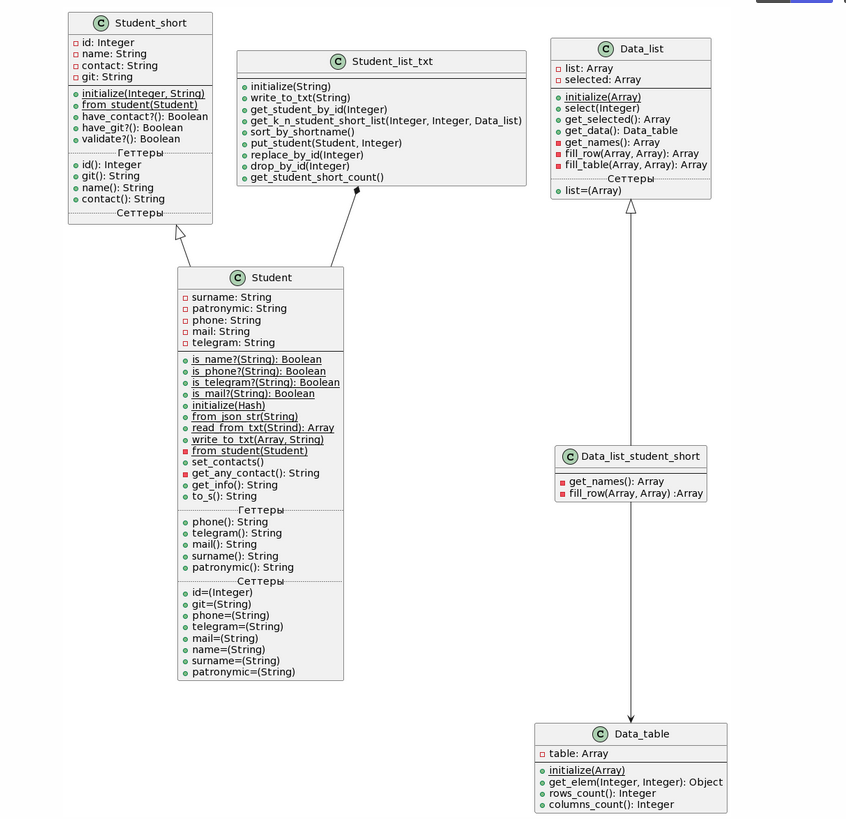
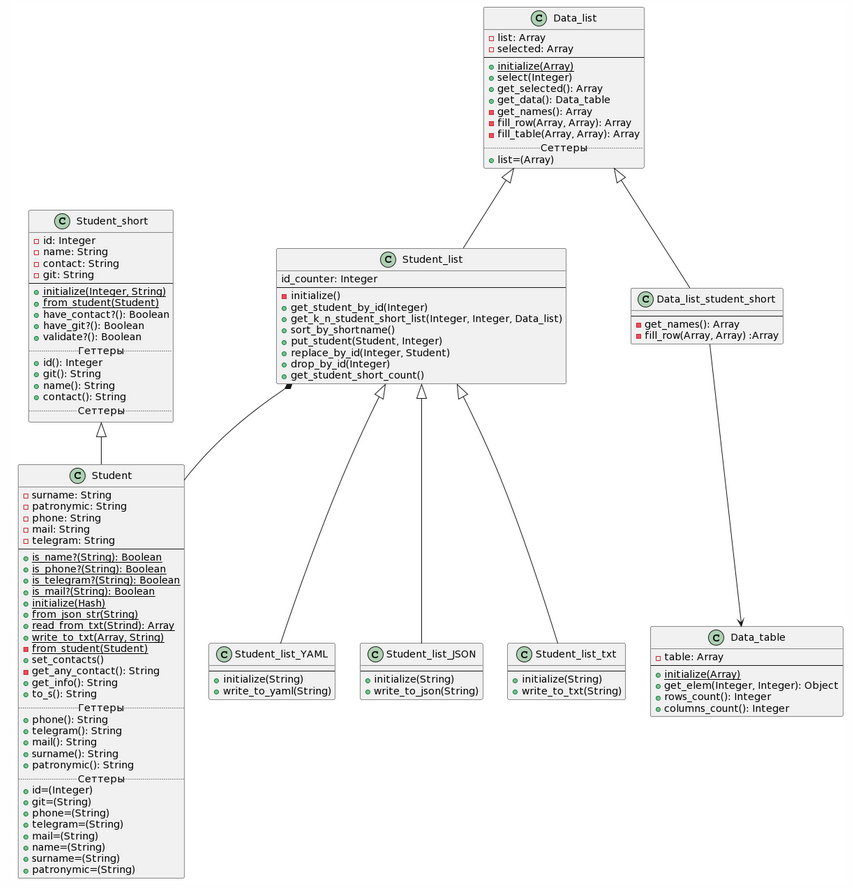
выделил суперкласс student_list

diff --git a/Lab2/task1/student_list_json.rb b/Lab2/task1/student_list_json.rb
@@ -1,58 +1,19 @@
 # frozen_string_literal: true
+require_relative 'student_list'
 
-class Student_list_JSON
-  attr_reader :student_list
+class Student_list_JSON < Student_list
+  public_class_method :new
+
   def initialize(file_path)
-    @student_list = []
-    @id_counter = 1
+    super()
     JSON.load(File.open(file_path)).each{|hash_for_student| put_student(Student.new(hash_for_student))}
   end
 
   def write_to_json(file_path)
     student_hash_list = []
-    @student_list.each{ |student| student_hash_list.append(student.to_hash) }
+    self.list.each{ |student| student_hash_list.append(student.to_hash) }
     File.open(file_path,'w') do |file|
       JSON.dump(student_hash_list,file)
     end
-  end
-
-  def get_student_by_id(id)
-    @student_list.find{ |student| student.id == id }
-  end
-
-  def get_k_n_student_short_list(k, n, data_list = nil)
-
-    if data_list
-      raise ArgumentError, "overflow indexes" if data_list.list.size < k * (n - 1) + 1
-      Data_list.new(data_list.list[k * (n - 1), k])
-    else
-      raise ArgumentError, "overflow indexes" if @student_list.size < k * (n - 1) + 1
-      Data_list.new(@student_list[k * (n - 1), k].map { |student| Student_short.from_student(student) } )
-    end
-  end
-
-  def sort_by_shortname
-    @student_list.sort_by! { |student | student.shortname }
-  end
-
-  def put_student(student, index = @student_list.size)
-    raise ArgumentError, "arg must be Student" unless student.class == Student
-
-    student.id = @id_counter
-    @student_list[index] = student
-    @id_counter += 1
-  end
-
-  def replace_by_id(id, student)
-    replace_index = @student_list.find_index{|old_student| old_student.id == id}
-    put_student(student, replace_index)
-  end
-
-  def drop_by_id(id)
-    @student_list.delete_if {|student| student.id == id}
-  end
-
-  def get_student_short_count
-    @student_list.size
   end
 end

diff --git a/Lab2/task1/student_list_yaml.rb b/Lab2/task1/student_list_yaml.rb
@@ -1,58 +1,17 @@
 # frozen_string_literal: true
 require 'yaml'
 
-class Student_list_YAML
-  attr_reader :student_list
+class Student_list_YAML < Student_list
+  public_class_method :new
 
   def initialize(file_path)
-    @student_list = []
-    @id_counter = 1
+    super()
     YAML.load(File.read(file_path)).each{|hash_for_student| put_student(Student.new(hash_for_student))}
   end
 
   def write_to_yaml(file_path)
     student_hash_list = []
-    @student_list.each{ |student| student_hash_list.append(student.to_hash) }
+    self.list.each{ |student| student_hash_list.append(student.to_hash) }
     File.write(file_path, YAML.dump(student_hash_list))
-  end
-
-  def get_student_by_id(id)
-    @student_list.find{ |student| student.id == id }
-  end
-
-  def get_k_n_student_short_list(k, n, data_list = nil)
-
-    if data_list
-      raise ArgumentError, "overflow indexes" if data_list.list.size < k * (n - 1) + 1
-      Data_list.new(data_list.list[k * (n - 1), k])
-    else
-      raise ArgumentError, "overflow indexes" if @student_list.size < k * (n - 1) + 1
-      Data_list.new(@student_list[k * (n - 1), k].map { |student| Student_short.from_student(student) } )
-    end
-  end
-
-  def sort_by_shortname
-    @student_list.sort_by! { |student | student.shortname }
-  end
-
-  def put_student(student, index = @student_list.size)
-    raise ArgumentError, "arg must be Student" unless student.class == Student
-
-    student.id = @id_counter
-    @student_list[index] = student
-    @id_counter += 1
-  end
-
-  def replace_by_id(id, student)
-    replace_index = @student_list.find_index{|old_student| old_student.id == id}
-    put_student(student, replace_index)
-  end
-
-  def drop_by_id(id)
-    @student_list.delete_if {|student| student.id == id}
-  end
-
-  def get_student_short_count
-    @student_list.size
   end
 end

diff --git a/Lab2/task1/student_list_txt.rb b/Lab2/task1/student_list_txt.rb
@@ -1,53 +1,15 @@
 # frozen_string_literal: true
+require_relative 'student_list'
 
-class Student_list_txt
+class Student_list_txt < Student_list
+  public_class_method :new
+
   def initialize(txt_file_path)
-    @student_list = []
-    @id_counter = 1
+    super()
     Student.read_from_txt(txt_file_path).each { |student| put_student(student) }
   end
 
   def write_to_txt(file_path)
-    Student.write_to_txt(@student_list, file_path)
-  end
-
-  def get_student_by_id(id)
-    @student_list.find{ |student| student.id == id }
-  end
-
-  def get_k_n_student_short_list(k, n, data_list = nil)
-
-    if data_list
-      raise ArgumentError, "overflow indexes" if data_list.list.size < k * (n - 1) + 1
-      Data_list.new(data_list.list[k * (n - 1), k])
-    else
-      raise ArgumentError, "overflow indexes" if @student_list.size < k * (n - 1) + 1
-      Data_list.new(@student_list[k * (n - 1), k].map { |student| Student_short.from_student(student) } )
-    end
-  end
-
-  def sort_by_shortname
-    @student_list.sort_by! { |student | student.shortname }
-  end
-
-  def put_student(student, index = @student_list.size)
-    raise ArgumentError, "arg must be Student" unless student.class == Student
-
-    student.id = @id_counter
-    @student_list[index] = student
-    @id_counter += 1
-  end
-
-  def replace_by_id(id, student)
-    replace_index = @student_list.find_index{|old_student| old_student.id == id}
-    put_student(student, replace_index)
-  end
-
-  def drop_by_id(id)
-    @student_list.delete_if {|student| student.id == id}
-  end
-
-  def get_student_short_count
-    @student_list.size
+    Student.write_to_txt(self.list, file_path)
   end
 end

diff --git a/Lab2/task1/student_list.rb b/Lab2/task1/student_list.rb
@@ -1,0 +1,52 @@
+# frozen_string_literal: true
+require_relative 'data_list'
+
+class Student_list < Data_list
+  attr_reader :student_list
+
+  private_class_method :new
+
+  def initialize
+    self.list=[]
+    @id_counter = 1
+  end
+
+  def get_student_by_id(id)
+    self.list.find{ |student| student.id == id }
+  end
+
+  def get_k_n_student_short_list(k, n, data_list = nil)
+    if data_list
+      raise ArgumentError, "overflow indexes" if data_list.list.size < k * (n - 1) + 1
+      Data_list_student_short.new(data_list.list[k * (n - 1), k])
+    else
+      raise ArgumentError, "overflow indexes" if self.list.size < k * (n - 1) + 1
+      Data_list_student_short.new(self.list[k * (n - 1), k].map { |student| Student_short.from_student(student) } )
+    end
+  end
+
+  def sort_by_shortname
+    self.list.sort_by! { |student | student.shortname }
+  end
+
+  def put_student(student, index = self.list.size)
+    raise ArgumentError, "arg must be Student" unless student.class == Student
+
+    student.id = @id_counter
+    self.list[index] = student
+    @id_counter += 1
+  end
+
+  def replace_by_id(id, student)
+    replace_index = self.list.find_index{|old_student| old_student.id == id}
+    put_student(student, replace_index)
+  end
+
+  def drop_by_id(id)
+    self.list.delete_if {|student| student.id == id}
+  end
+
+  def get_student_short_count
+    self.list.size
+  end
+end
